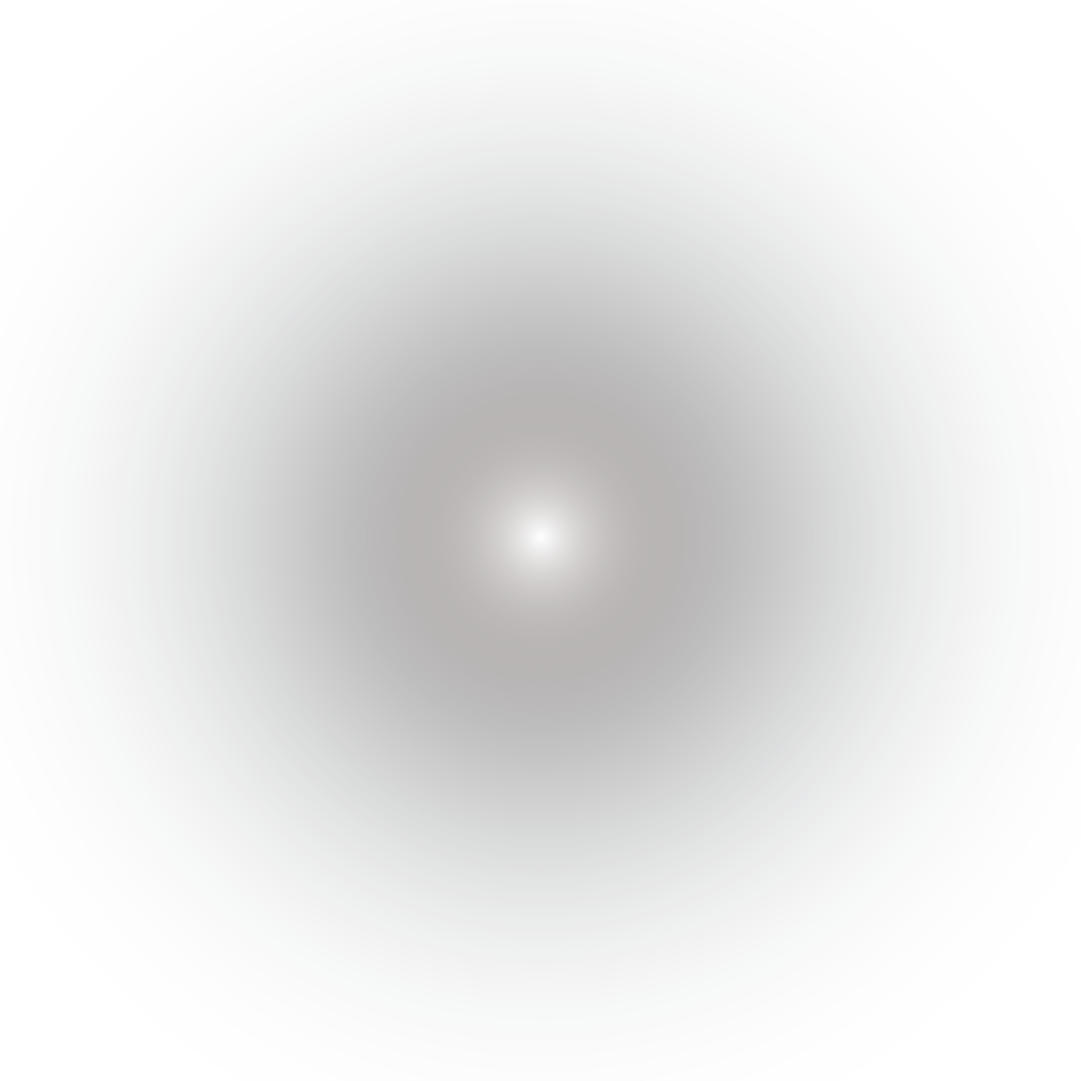
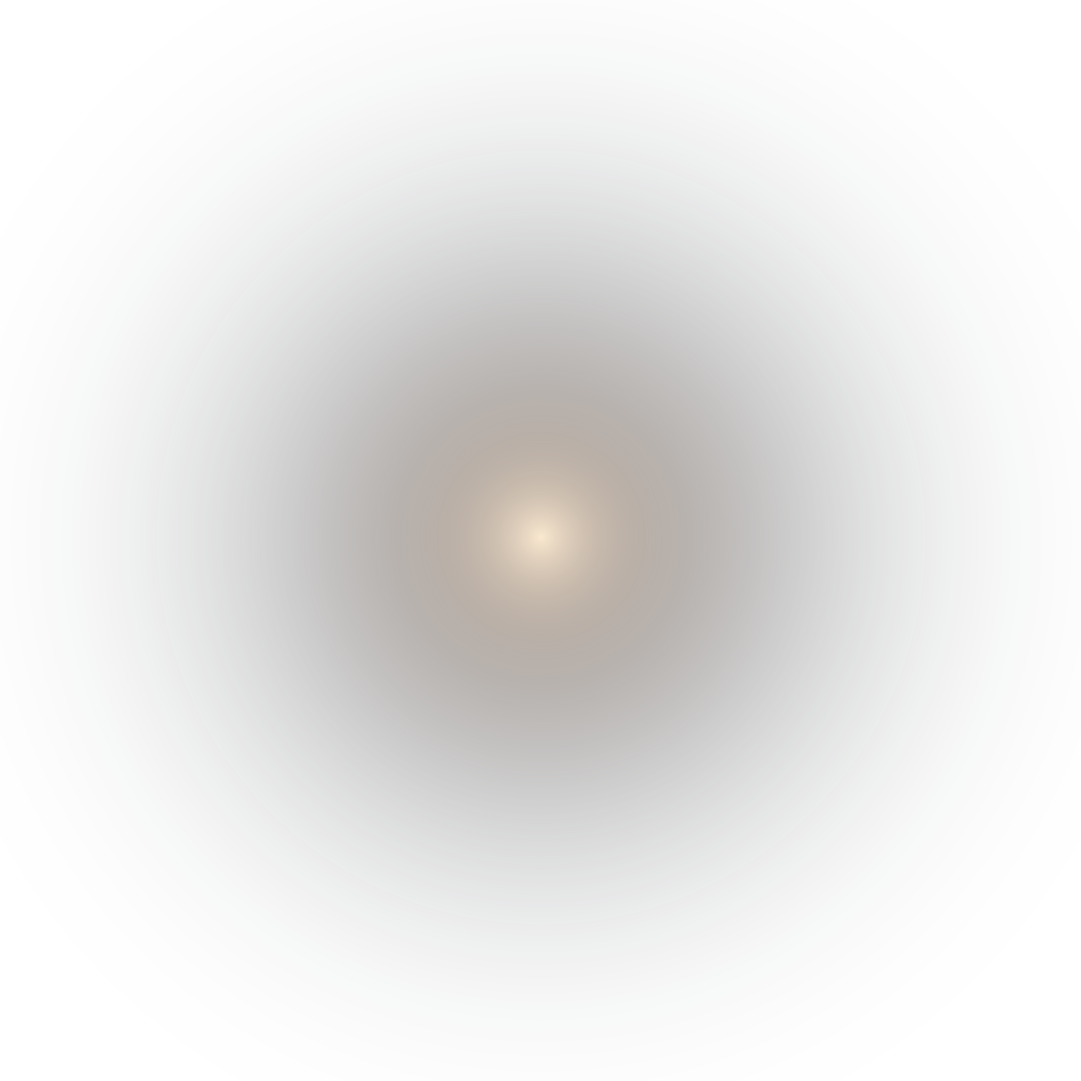
fix:コラムデコ修正、全体像ライト変更

Changed region(s): [[0.4274, 0.4274, 0.5495, 0.5495]]

diff --git a/index.html b/index.html
@@ -194,8 +194,7 @@
         <img src="images/iontri.png" alt="" width="181px" class="ion3">
         <img src="images/iontri.png" alt="" width="181px" class="ion4">
 
-        <img src="" alt="" class="light1">
-        <img src="" alt="" class="light2">
+
 
         <a href="column.html" class="column-button button-itokawa">→ aboutイトカワ</a>
         <a href="column.html" class="column-button button-sample">→ aboutサンプルリターン</a>
@@ -269,8 +268,8 @@
         <img src="images/hayabusa_logo.png" alt="" width="50px" id="haya8" class="movingHayabusa">
         <img src="images/hayabusa_logo.png" alt="" width="50px" id="haya9" class="movingHayabusa"> -->
 
-        <img src="images/hayabusa_light.png" alt="" width="1017px" class="light1">
-        <img src="images/hayabusa_light.png" alt="" width="220px" class="light2">
+        <img src="images/hayabusa_light_white.png" alt="" width="1017px" class="light1">
+        <img src="images/hayabusa_light_white.png" alt="" width="220px" class="light2">
 
 
             

diff --git a/js/script.js b/js/script.js
@@ -92,6 +92,18 @@ if (window.matchMedia('(max-width: 480px)').matches) {
             start:"top 75%",
             end:"bottom top",
             
+            scrub:true,
+           
+        }
+    });
+
+    gsap.to(".landing",{
+        y:20,
+        scrollTrigger:{
+            trigger:".pol5",
+            start:"top 50%",
+            end:"bottom top",
+            
             scrub:true
             
         }
@@ -297,6 +309,18 @@ if (window.matchMedia('(max-width: 480px)').matches) {
             trigger:".pol4",
             start:"top 75%",
             end:"bottom top",
+            
+            scrub:true
+            
+        }
+    });
+    gsap.to(".landing",{
+        y:50,
+        scrollTrigger:{
+            trigger:".pol5",
+            start:"top 50%",
+            end:"bottom top",
+         
             
             scrub:true
             

diff --git a/css/style.css b/css/style.css
@@ -665,7 +665,7 @@ svg{
     left: 9.5%;
     top: 40%;
     opacity: 0;
-    z-index: 0;
+    z-index: -1;
 }
 
 .minervaLight{
@@ -673,7 +673,7 @@ svg{
     left: 5%;
     top: 27%;
     opacity: 0;
-    z-index: 0;
+    z-index: -1;
 }
 
 .capsuleLight{
@@ -681,7 +681,7 @@ svg{
     left: 7%;
     top: 15%;
     opacity: 0;
-    z-index: 0;
+    z-index: -1;
 }
 
 .ionLight{
@@ -689,7 +689,7 @@ svg{
     left: 30%;
     top: 30%;
     opacity: 0;
-    z-index: 0;
+    z-index: -1;
 }
 
 .solarLight1{
@@ -697,7 +697,7 @@ svg{
     left: -3%;
     top: -10%;
     opacity: 0;
-    z-index: 0;
+    z-index: -1;
 }
 
 .solarLight2{
@@ -705,7 +705,7 @@ svg{
     left: 60%;
     top: -10%;
     opacity: 0;
-    z-index: 0;
+    z-index: -1;
 }
 
 .last{

diff --git a/css/column.css b/css/column.css
@@ -379,6 +379,21 @@ footer{
     .deco{
         font-size: 10px;
     }
+
+    .sampleReturn .deco{
+        margin-left: 80px;
+        margin-top: -5px;
+
+    }
+    .itokawa .deco{
+        margin-left: 35px;
+        margin-top: -5px;
+    }
+
+    .hayabusa .deco{
+        margin-left: 70px;
+        margin-top: -3px;
+    }
     .text{
         font-size: 9px;
         line-height: 30px;
